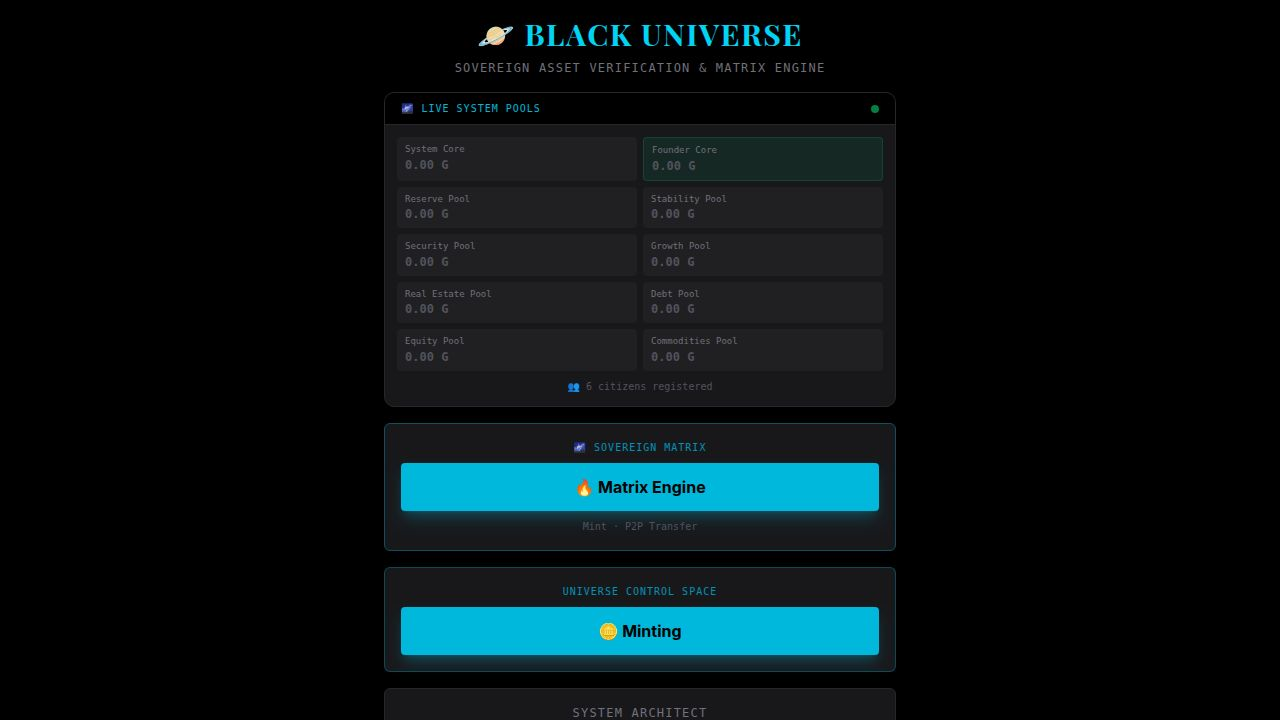
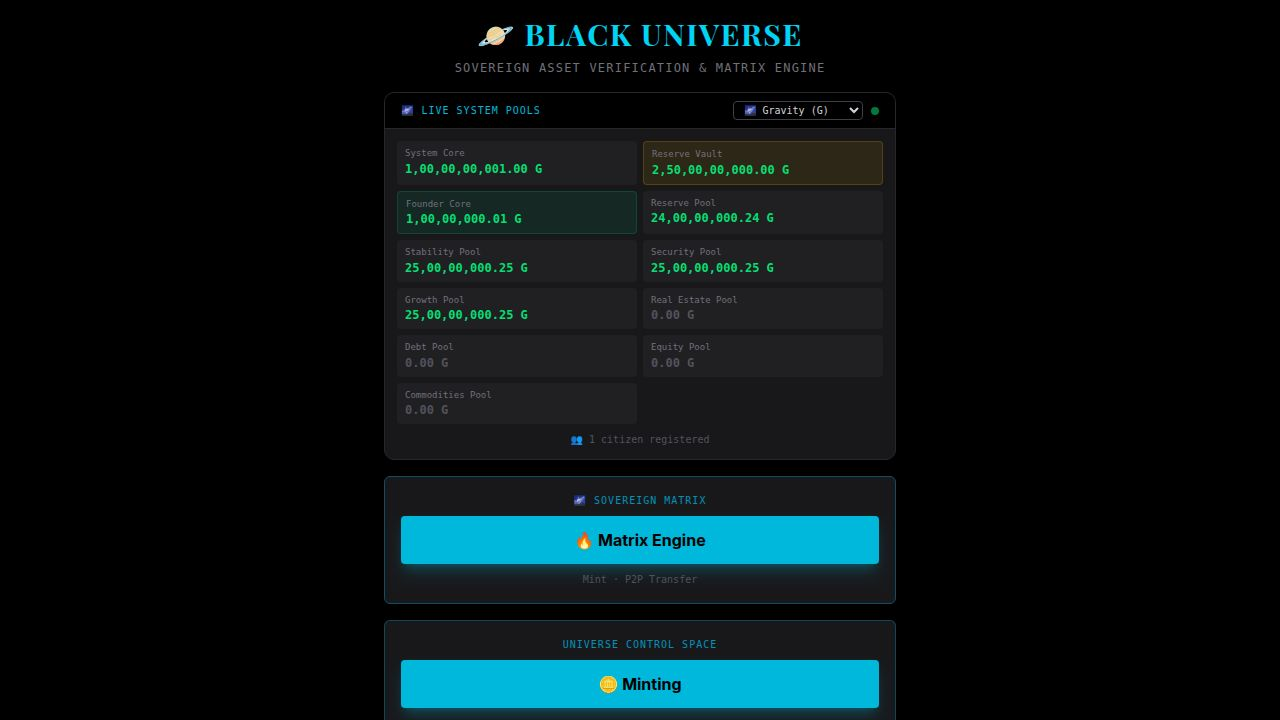
Add document uploads to asset minting and enable admin access to system accounts
Adds document upload functionality to the matrix minting form, allowing for the attachment of proof documents. It also modifies the P2P transfer functionality to include System Main and Reserve Vault accounts in the admin's selectable wallets.

Replit-Commit-Author: Agent
Replit-Commit-Session-Id: 8deae816-006f-4915-9f32-59e4fc1fa9d1
Replit-Commit-Checkpoint-Type: full_checkpoint
Replit-Commit-Event-Id: f79670fd-8667-4fb9-bd28-53e9942180c1
Replit-Commit-Screenshot-Url: https://storage.googleapis.com/screenshot-production-us-central1/0dfc69ed-6646-4eb1-8404-54894b3a1245/8deae816-006f-4915-9f32-59e4fc1fa9d1/Z8xz9DV
Replit-Helium-Checkpoint-Created: true

Changed region(s): [[0.2812, 0.3361, 0.7188, 1.0], [0.3125, 0.1222, 0.6875, 0.3056], [0.3125, 0.275, 0.4062, 0.5194]]

diff --git a/artifacts/asset-verify/src/pages/matrix.tsx b/artifacts/asset-verify/src/pages/matrix.tsx
@@ -1,4 +1,4 @@
-import { useEffect, useMemo, useState } from "react";
+import { useEffect, useMemo, useRef, useState } from "react";
 import { useQuery, useMutation, useQueryClient } from "@tanstack/react-query";
 import { useAuth } from "@/components/auth-provider";
 import { useToast } from "@/hooks/use-toast";
@@ -7,6 +7,9 @@ import {
   useListMyAssets,
   getListMyAssetsQueryKey,
 } from "@workspace/api-client-react";
+import { ObjectUploader } from "@workspace/object-storage-web";
+import type { UploadResult } from "@uppy/core";
+import { FileText, X, CheckCircle2 } from "lucide-react";
 import {
   GRAVITY_RATE,
   STATIC_INR_PER_UNIT,
@@ -47,6 +50,8 @@ function fmtDate(d: string) {
   }
 }
 
+type UploadedDoc = { name: string; objectPath: string };
+
 export default function MatrixEngine() {
   const { user } = useAuth();
   const { toast } = useToast();
@@ -66,12 +71,15 @@ export default function MatrixEngine() {
   const myAccount = accounts.find(
     (a) => a.accountNumber === user?.accountNumber,
   );
-  // Selectable transfer counterparties (exclude the System Core sink).
+  // Selectable transfer counterparties. Regular citizens never see the System
+  // Core (000000000000) or Reserve Vault (000000000001); admins can route funds
+  // through them, so they get the full account list.
   const allWallets = accounts.filter(
     (a) =>
       a.accountNumber !== "000000000000" &&
       a.accountNumber !== "000000000001",
   );
+  const transferWallets = isAdmin ? accounts : allWallets;
 
   // The logged-in user's own transaction history.
   const { data: txData } = useQuery({
@@ -91,9 +99,38 @@ export default function MatrixEngine() {
   );
 
   // ── Mint Form (Founder only) ────────────────────────────────────────────────
-  const [mintForm, setMintForm] = useState({ inrValue: "", assetTitle: "" });
+  const [mintForm, setMintForm] = useState({
+    inrValue: "",
+    assetTitle: "",
+    assetType: "real_estate",
+    description: "",
+  });
   const gravityPreview =
     Number(mintForm.inrValue) > 0 ? Number(mintForm.inrValue) / 10000 : 0;
+
+  const [uploadedDocs, setUploadedDocs] = useState<UploadedDoc[]>([]);
+  const objectPathsRef = useRef<Map<string, UploadedDoc>>(new Map());
+
+  const handleUploadComplete = (
+    result: UploadResult<Record<string, unknown>, Record<string, unknown>>,
+  ) => {
+    const newDocs: UploadedDoc[] = [];
+    for (const file of result.successful ?? []) {
+      const stored = objectPathsRef.current.get(file.id);
+      if (stored) newDocs.push(stored);
+    }
+    setUploadedDocs((prev) => [...prev, ...newDocs]);
+    if (newDocs.length > 0) {
+      toast({
+        title: "Document Uploaded",
+        description: `${newDocs.length} file(s) ready to attach to this mint.`,
+      });
+    }
+  };
+
+  const removeDoc = (objectPath: string) => {
+    setUploadedDocs((prev) => prev.filter((d) => d.objectPath !== objectPath));
+  };
 
   const mintMutation = useMutation({
     mutationFn: (body: object) =>
@@ -103,7 +140,14 @@ export default function MatrixEngine() {
         title: "🔥 Mint Complete!",
         description: `${fmt(data.gravityTotal)} Gravity injected into the matrix`,
       });
-      setMintForm({ inrValue: "", assetTitle: "" });
+      setMintForm({
+        inrValue: "",
+        assetTitle: "",
+        assetType: "real_estate",
+        description: "",
+      });
+      setUploadedDocs([]);
+      objectPathsRef.current.clear();
       qc.invalidateQueries({ queryKey: ["matrix-accounts"] });
     },
     onError: (e: Error) =>
@@ -123,9 +167,21 @@ export default function MatrixEngine() {
       });
       return;
     }
+    if (uploadedDocs.length === 0) {
+      toast({
+        title: "Proof Documents Required",
+        description:
+          "Attach at least one proof document (papers / terms / legal) backing this mint.",
+        variant: "destructive",
+      });
+      return;
+    }
     mintMutation.mutate({
       inrValue: mintForm.inrValue,
       assetTitle: mintForm.assetTitle,
+      assetType: mintForm.assetType,
+      description: mintForm.description,
+      documentUrls: uploadedDocs.map((d) => d.objectPath),
     });
   }
 
@@ -268,6 +324,25 @@ export default function MatrixEngine() {
 
                 <div>
                   <label className="text-zinc-400 text-xs font-mono">
+                    Asset Class *
+                  </label>
+                  <select
+                    value={mintForm.assetType}
+                    onChange={(e) =>
+                      setMintForm({ ...mintForm, assetType: e.target.value })
+                    }
+                    className="w-full mt-1 bg-black border border-zinc-700 rounded-md px-3 py-2 text-white text-sm focus:border-cyan-500 focus:outline-none"
+                  >
+                    <option value="real_estate">Real Estate</option>
+                    <option value="commodity">Commodity</option>
+                    <option value="equity">Equity</option>
+                    <option value="debt">Debt</option>
+                    <option value="money_market">Money Market</option>
+                  </select>
+                </div>
+
+                <div>
+                  <label className="text-zinc-400 text-xs font-mono">
                     Asset Valuation in INR (₹) *
                   </label>
                   <input
@@ -285,6 +360,91 @@ export default function MatrixEngine() {
                     <p className="text-cyan-400 text-xs mt-1 font-mono">
                       ✨ Liquidity Expansion: {fmt(gravityPreview)} Gravity Notes
                     </p>
+                  )}
+                </div>
+
+                <div>
+                  <label className="text-zinc-400 text-xs font-mono">
+                    Asset Details / Notes
+                  </label>
+                  <textarea
+                    rows={3}
+                    placeholder="Describe the backing asset, terms, references…"
+                    value={mintForm.description}
+                    onChange={(e) =>
+                      setMintForm({ ...mintForm, description: e.target.value })
+                    }
+                    className="w-full mt-1 bg-black border border-zinc-700 rounded-md px-3 py-2 text-white text-sm focus:border-cyan-500 focus:outline-none resize-none"
+                  />
+                </div>
+
+                <div>
+                  <label className="text-zinc-400 text-xs font-mono">
+                    Proof Documents <span className="text-red-500">*</span>
+                  </label>
+                  <p className="text-zinc-600 text-[11px] font-mono mt-1 mb-2">
+                    Upload deeds, titles, certificates or terms (images / PDF,
+                    max 10 MB each). Required to back this mint.
+                  </p>
+                  <ObjectUploader
+                    maxNumberOfFiles={5}
+                    maxFileSize={10 * 1024 * 1024}
+                    onGetUploadParameters={async (file) => {
+                      const res = await fetch(
+                        "/api/storage/uploads/request-url",
+                        {
+                          method: "POST",
+                          headers: { "Content-Type": "application/json" },
+                          credentials: "include",
+                          body: JSON.stringify({
+                            name: file.name,
+                            size: file.size,
+                            contentType: file.type,
+                          }),
+                        },
+                      );
+                      const { uploadURL, objectPath } = await res.json();
+                      objectPathsRef.current.set(file.id, {
+                        name: file.name,
+                        objectPath,
+                      });
+                      return {
+                        method: "PUT" as const,
+                        url: uploadURL,
+                        headers: { "Content-Type": file.type },
+                      };
+                    }}
+                    onComplete={handleUploadComplete}
+                    buttonClassName="flex items-center gap-2 px-4 py-2 rounded-md border border-dashed border-zinc-700 bg-black hover:bg-zinc-900 text-sm font-medium text-zinc-300 transition-colors w-full justify-center"
+                  >
+                    <FileText className="h-4 w-4" /> Upload Proof Documents
+                  </ObjectUploader>
+
+                  {uploadedDocs.length > 0 && (
+                    <div className="space-y-2 mt-3">
+                      <p className="text-sm font-medium text-emerald-400 flex items-center gap-1">
+                        <CheckCircle2 className="h-4 w-4" />{" "}
+                        {uploadedDocs.length} document(s) attached
+                      </p>
+                      {uploadedDocs.map((doc) => (
+                        <div
+                          key={doc.objectPath}
+                          className="flex items-center justify-between bg-black border border-zinc-800 rounded px-3 py-2 text-sm"
+                        >
+                          <div className="flex items-center gap-2 text-zinc-400 truncate">
+                            <FileText className="h-4 w-4 flex-shrink-0" />
+                            <span className="truncate">{doc.name}</span>
+                          </div>
+                          <button
+                            type="button"
+                            onClick={() => removeDoc(doc.objectPath)}
+                            className="ml-2 text-zinc-500 hover:text-red-400 flex-shrink-0"
+                          >
+                            <X className="h-4 w-4" />
+                          </button>
+                        </div>
+                      ))}
+                    </div>
                   )}
                 </div>
 
@@ -327,7 +487,7 @@ export default function MatrixEngine() {
                       className="w-full mt-1 bg-black border border-zinc-700 rounded-md px-3 py-2 text-white text-sm focus:border-cyan-500 focus:outline-none"
                     >
                       <option value="">— Select Sender —</option>
-                      {allWallets.map((a) => (
+                      {transferWallets.map((a) => (
                         <option key={a.accountNumber} value={a.accountNumber}>
                           {a.name} ({a.accountNumber}) [Bal: {fmt(a.gravityBalance)}]
                         </option>
@@ -369,7 +529,7 @@ export default function MatrixEngine() {
                     className="w-full mt-1 bg-black border border-zinc-700 rounded-md px-3 py-2 text-white text-sm focus:border-cyan-500 focus:outline-none"
                   >
                     <option value="">— Select Receiver —</option>
-                    {allWallets
+                    {transferWallets
                       .filter(
                         (a) => isAdmin || a.accountNumber !== user?.accountNumber,
                       )

diff --git a/artifacts/api-server/src/routes/matrix.ts b/artifacts/api-server/src/routes/matrix.ts
@@ -1,6 +1,6 @@
 import { Router } from "express";
 import type { Request, Response } from "express";
-import { db, matrixAccountsTable, matrixTransactionsTable, usersTable } from "@workspace/db";
+import { assetsTable, db, matrixAccountsTable, matrixTransactionsTable, usersTable } from "@workspace/db";
 import { eq, desc, isNull, or } from "drizzle-orm";
 import {
   FOUNDER_ACCOUNT,
@@ -110,12 +110,17 @@ router.post("/matrix/mint", async (req, res): Promise<void> => {
   if (!(await requireAdmin(req, res))) return;
 
   try {
-    const { inrValue, assetTitle } = req.body;
+    const { inrValue, assetTitle, assetType, description, documentUrls } =
+      req.body;
 
     if (!inrValue || Number(inrValue) <= 0 || !assetTitle?.trim()) {
       res.status(400).json({ error: "INR value and asset title are required" });
       return;
     }
+
+    const docs: string[] = Array.isArray(documentUrls)
+      ? documentUrls.filter((u): u is string => typeof u === "string" && !!u)
+      : [];
 
     // System mint: the growth share routes to the Growth Pool so the Founder
     // always receives exactly 1% (never doubled via a user-selected target).
@@ -124,6 +129,31 @@ router.post("/matrix/mint", async (req, res): Promise<void> => {
       assetTitle: String(assetTitle),
       targetWallet: GROWTH_ACCOUNT,
     });
+
+    // Persist the documented asset backing this mint so the proof papers are
+    // retained and visible in the asset registry. Marked already-minted so it is
+    // never re-deposited through the normal approval pipeline.
+    if (docs.length > 0) {
+      const userId = req.session?.userId;
+      if (userId) {
+        await db.insert(assetsTable).values({
+          userId,
+          assetType:
+            typeof assetType === "string" && assetType.trim()
+              ? assetType
+              : "real_estate",
+          claimedValue: String(inrValue),
+          description:
+            typeof description === "string" && description.trim()
+              ? `${assetTitle} — ${description}`
+              : String(assetTitle),
+          documentUrls: docs,
+          status: "minted",
+          mintedAt: new Date(),
+          gravityIssued: String(gravityTotal),
+        });
+      }
+    }
 
     res.json({ success: true, gravityTotal, splits });
   } catch (err: unknown) {

diff --git a/.agents/memory/matrix-system-account-access.md b/.agents/memory/matrix-system-account-access.md
@@ -1,0 +1,16 @@
+---
+name: Matrix system-account access & documented mint
+description: Why admins (not citizens) can transfer via System Main/Reserve Vault, and how the Founder Mint records its proof documents.
+---
+
+## Admin transfer access to system accounts
+matrix.tsx keeps regular citizens from seeing System Main (`000000000000`) and Reserve Vault (`000000000001`) in the P2P transfer dropdowns, but **admins intentionally see the full account list** (`transferWallets = isAdmin ? accounts : allWallets`).
+
+**Why:** The founder needs to route real value through System Core / Reserve Vault. Do NOT "re-lock" by removing these from the admin dropdowns thinking it's a PII/leak regression — it is a deliberate founder capability.
+
+**How to apply:** Admin P2P from/to the Vault is allowed because a transfer is auditable and conserves total gravity. This is distinct from the removed arbitrary `/admin/vault/anchor` endpoint (which conjured numbers). Keep transfers enabled; do not reintroduce arbitrary balance-setting.
+
+## Founder Mint is document-backed
+The `/matrix/mint` endpoint accepts optional `documentUrls` / `assetType` / `description`. When `documentUrls` is present it writes an `assetsTable` row with `status: "minted"` and `mintedAt: now` so the proof papers are retained/visible in the registry and the record can never be re-deposited through the normal approval pipeline.
+
+**Why:** Frontend (matrix.tsx) REQUIRES proof docs on mint, but the backend keeps them optional so the other mint form (universe-control-space) — which sends no docs — keeps working. Don't make backend docs mandatory or that form breaks.

diff --git a/.agents/memory/MEMORY.md b/.agents/memory/MEMORY.md
@@ -13,4 +13,5 @@
 - [Universal currency + live FX](universal-currency-fx.md) — transfer form supports ANY world currency via Intl + live open.er-api.com rates (INR base); Gravity anchored ₹10000=1; keep static fallback, don't revert to hardcoded list.
 - [Expo merge breaks shadcn typecheck](expo-merge-types-react-dup.md) — after mobile artifact merged, asset-verify typecheck fails in shadcn UI files (duplicate @types/react); not feature-caused, app still runs.
 - [Dark theme + bg-white = invisible text](dark-theme-white-bg-invisible-text.md) — asset-verify is dark (light foreground); any bg-white surface without forced dark text renders unreadable. Use bg-card/dark select styling.
+- [Matrix system-account access & documented mint](matrix-system-account-access.md) — admins intentionally see System Main + Reserve Vault in transfer dropdowns (don't re-lock); Founder Mint records optional proof docs as a status:"minted" asset.
 - [Gravity atomic transfers vs display](gravity-atomic-display.md) — 0.0001 IS transferred & stored (numeric(30,6)+toFixed(6)); "shows 00" is pure display rounding (fmt/fmtG maxFractionDigits:2) + input step, NOT a real bug.
